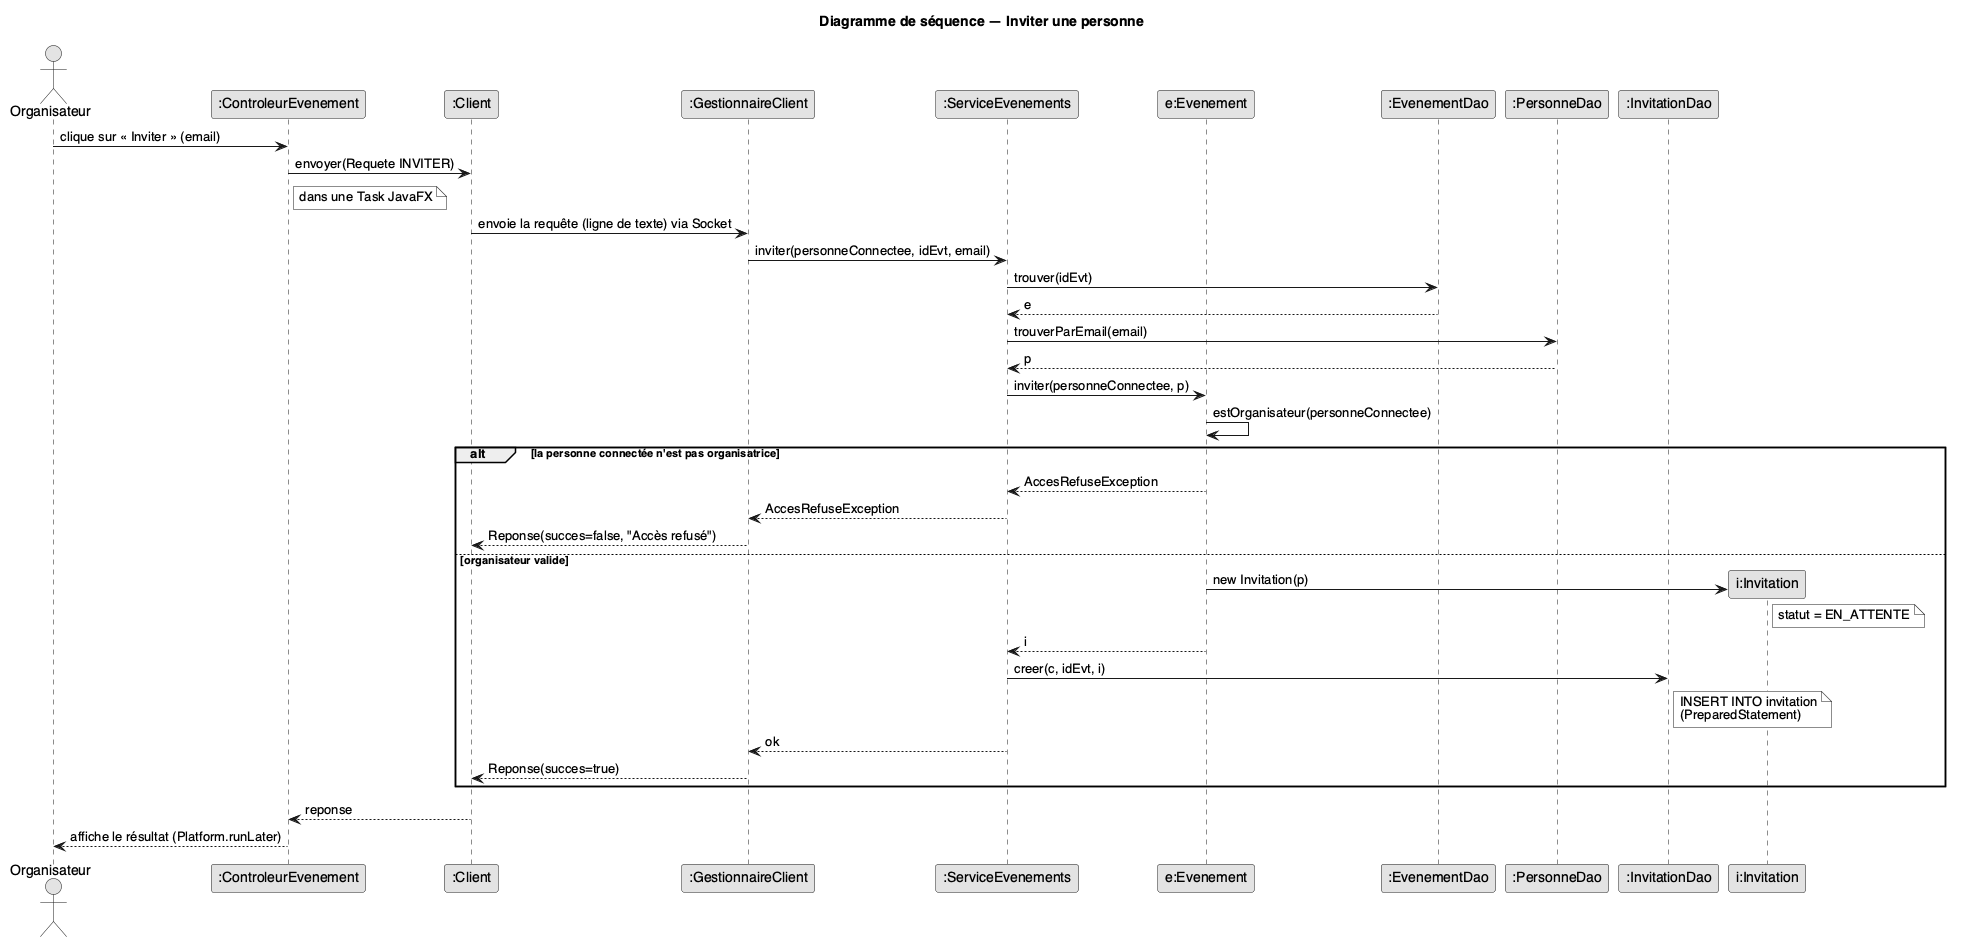
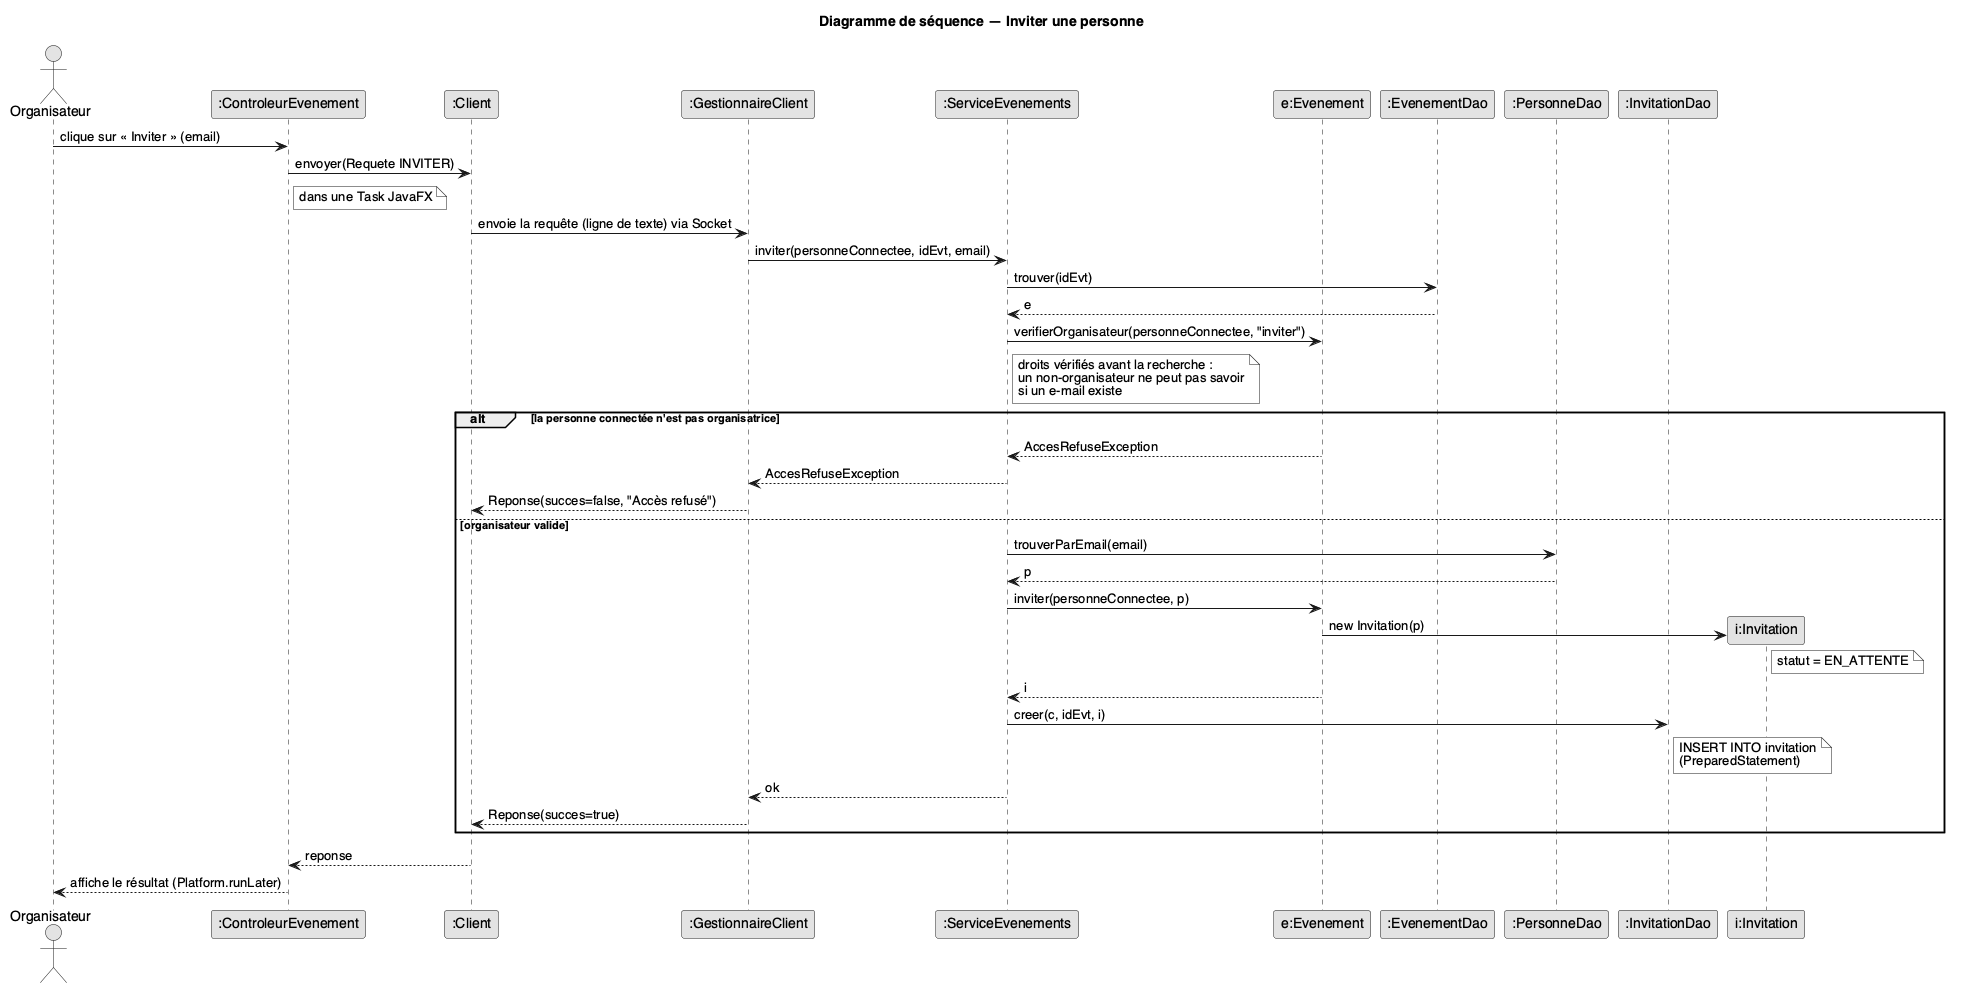
feat(bdd): enhance database initialization and transaction management; update SQL scripts and README

diff --git a/src/main/java/serveur/MainTestBDD.java b/src/main/java/serveur/MainTestBDD.java
@@ -36,9 +36,11 @@ public class MainTestBDD {
     public static void main(String[] args) throws Exception {
         // Repartir d'une base vide (le nom doit correspondre à db.url dans db.properties)
         Files.deleteIfExists(Path.of("evenements.db"));
-        InitBase.executerScript("/schema.sql");
-        InitBase.executerScript("/donnees_test.sql");
+        InitBase.initialiser();
         System.out.println("1. Base créée et remplie");
+        InitBase.initialiser();
+        verifier(compter("SELECT COUNT(*) FROM personne") == 4,
+                "second démarrage : données conservées, comptes de test non réinsérés (F4, F30)");
 
         PersonneDao personnes = new PersonneDao();
         AuthService auth = new AuthService(personnes);
@@ -59,12 +61,12 @@ public class MainTestBDD {
         Personne emma = auth.creerCompte("Moreau", "Emma", "emma@example.org", "secret", null);
         verifier(auth.seConnecter(" emma@example.org ", "secret").equals(emma),
                 "compte créé (haché bcrypt) puis connexion, espaces autour de l'e-mail ignorés");
-        echec(() -> auth.creerCompte("Moreau", "Emma", "EMMA@example.org", "autre", null), RuntimeException.class);
-        verifier(true, "même e-mail à la casse près refusé (UNIQUE COLLATE NOCASE)");
+        echec(() -> auth.creerCompte("Moreau", "Emma", "EMMA@example.org", "autre", null), IllegalStateException.class);
+        verifier(true, "même e-mail à la casse près refusé");
 
         // ------------------------------------------------------------ données de test
         System.out.println("\n3. Données de test relues (Factory sur la colonne type)");
-        Evenement anniv = service.trouverEvenement(1);
+        Evenement anniv = service.consulterEvenement(alice, 1);
         System.out.println("   " + anniv);
         for (Besoin b : anniv.getBesoins()) {
             System.out.println("     - " + b);
@@ -112,11 +114,13 @@ public class MainTestBDD {
         echec(() -> service.envoyerMessage(chloe, idSoiree, alice.getId(), "Je peux venir ?"),
                 AccesRefuseException.class);
         verifier(true, "Chloé (non participante) ne peut pas écrire dans la soirée (règle 3)");
+        echec(() -> service.consulterEvenement(chloe, idSoiree), AccesRefuseException.class);
+        verifier(true, "Chloé (ni organisatrice ni invitée) ne peut pas consulter la soirée (F6)");
 
         // ------------------------------------------------------------ relecture = redémarrage du serveur
         System.out.println("\n5. Relecture complète depuis la base (comme après un redémarrage)");
         ServiceEvenements apresRedemarrage = ServiceEvenements.creerParDefaut();
-        Evenement relue = apresRedemarrage.trouverEvenement(idSoiree);
+        Evenement relue = apresRedemarrage.consulterEvenement(alice, idSoiree);
         System.out.println("   " + relue);
         for (Besoin b : relue.getBesoins()) {
             System.out.println("     - " + b);
@@ -135,7 +139,7 @@ public class MainTestBDD {
         // ------------------------------------------------------------ transaction
         System.out.println("\n6. Transaction : Bob refuse après avoir accepté (F20)");
         service.repondreInvitation(bob, idSoiree, false);
-        Evenement apresRefus = service.trouverEvenement(idSoiree);
+        Evenement apresRefus = service.consulterEvenement(alice, idSoiree);
         verifier(!apresRefus.getBesoin(enceinte.getId()).orElseThrow().estAchete(),
                 "l'enceinte n'a plus d'acheteur : elle revient aux organisateurs");
         verifier(apresRefus.getInvitationDe(bob).orElseThrow().getStatut() == StatutInvitation.REFUSEE,
@@ -147,20 +151,20 @@ public class MainTestBDD {
                 apresRefus.getDateEvenement(), TypeEvenement.SOIREE);
         echec(() -> service.modifierEvenement(bob, idSoiree, "Piratée", null, 0, null,
                 apresRefus.getDateEvenement(), TypeEvenement.AUTRE), AccesRefuseException.class);
-        verifier(service.trouverEvenement(idSoiree).getNom().equals("Soirée de fin d'année"),
+        verifier(service.consulterEvenement(alice, idSoiree).getNom().equals("Soirée de fin d'année"),
                 "Alice modifie la soirée, Bob ne peut pas (F7, règle 1)");
         service.attribuerBesoin(alice, idSoiree, jus.getId(), alice.getId());
-        verifier(alice.equals(service.trouverEvenement(idSoiree).getBesoin(jus.getId()).orElseThrow().getAcheteur()),
+        verifier(alice.equals(service.consulterEvenement(alice, idSoiree).getBesoin(jus.getId()).orElseThrow().getAcheteur()),
                 "Alice attribue le jus à une participante (F18)");
         service.supprimerBesoin(alice, idSoiree, jus.getId());
-        verifier(service.trouverEvenement(idSoiree).getBesoin(jus.getId()).isEmpty(), "Alice supprime le jus (F17)");
+        verifier(service.consulterEvenement(alice, idSoiree).getBesoin(jus.getId()).isEmpty(), "Alice supprime le jus (F17)");
 
         // ------------------------------------------------------------ mariage, co-organisateur
         System.out.println("\n7. Mariage (budget traiteur automatique) et co-organisateur");
         Evenement mariage = service.creerEvenement(chloe, "Mariage de Chloé", "Lille", 0, null,
                 LocalDateTime.now().plusYears(1).withSecond(0).withNano(0), TypeEvenement.MARIAGE);
         service.ajouterOrganisateur(chloe, mariage.getId(), "david@example.org");
-        Evenement mariageRelu = service.trouverEvenement(mariage.getId());
+        Evenement mariageRelu = service.consulterEvenement(chloe, mariage.getId());
         System.out.println("   " + mariageRelu + ", organisateurs : " + mariageRelu.getOrganisateurs().size());
         verifier(mariageRelu.getBesoins().size() == 1, "budget traiteur ajouté une fois");
         verifier(mariageRelu.getOrganisateurs().size() == 2, "David est co-organisateur");

diff --git a/src/main/java/serveur/bdd/InitBase.java b/src/main/java/serveur/bdd/InitBase.java
@@ -4,18 +4,41 @@ import java.io.IOException;
 import java.io.InputStream;
 import java.nio.charset.StandardCharsets;
 import java.sql.Connection;
+import java.sql.ResultSet;
 import java.sql.SQLException;
 import java.sql.Statement;
 import java.util.stream.Collectors;
 
-/** Exécute un script SQL du classpath (bdd/schema.sql, bdd/donnees_test.sql). */
+/** Prépare la base au démarrage à partir des scripts du classpath (bdd/schema.sql, bdd/donnees_test.sql). */
 public final class InitBase {
 
     private InitBase() { }
 
-    public static void executerScript(String ressource) {
+    /**
+     * Crée les tables manquantes, puis insère les comptes de test si la base est vide (F4).
+     * Sans effet sur une base déjà remplie : les données sont conservées entre deux démarrages (F30).
+     */
+    public static void initialiser() {
+        // Une seule transaction : si une insertion échoue, rien n'est gardé et le prochain démarrage recommence
+        Transaction.executerSansRetour(c -> {
+            executerScript(c, "/schema.sql");
+            if (estVide(c)) {
+                executerScript(c, "/donnees_test.sql");
+            }
+        });
+    }
+
+    private static boolean estVide(Connection c) {
+        try (Statement st = c.createStatement(); ResultSet rs = st.executeQuery("SELECT COUNT(*) FROM personne")) {
+            return rs.next() && rs.getInt(1) == 0;
+        } catch (SQLException e) {
+            throw new DaoException("Lecture de la table personne impossible", e);
+        }
+    }
+
+    private static void executerScript(Connection c, String ressource) {
         String sql = lire(ressource);
-        try (Connection c = ConnexionBD.get(); Statement st = c.createStatement()) {
+        try (Statement st = c.createStatement()) {
             for (String instruction : sql.split(";")) {
                 if (!instruction.isBlank()) {
                     st.execute(instruction);

diff --git a/src/main/java/serveur/service/AuthService.java b/src/main/java/serveur/service/AuthService.java
@@ -2,10 +2,12 @@ package serveur.service;
 
 import modele.Personne;
 import org.mindrot.jbcrypt.BCrypt;
+import serveur.bdd.Transaction;
 import serveur.dao.PersonneDao;
 
 import java.time.LocalDate;
 
+/** Connexion (F1, F2, F31) et création de compte (comptes de test : pas d'inscription en ligne, F4). */
 public class AuthService {
     private final PersonneDao personnes;
 
@@ -15,6 +17,7 @@ public class AuthService {
 
     /**
      * Renvoie la personne si les identifiants sont bons.
+     * Même exception que l'e-mail soit inconnu ou le mot de passe faux (F2).
      */
     public Personne seConnecter(String email, String mdp) {
         return personnes.trouverParEmail(email)
@@ -22,8 +25,17 @@ public class AuthService {
                 .orElseThrow(AuthentificationException::new);
     }
 
-    /** Création d'un compte. Le mot de passe est haché avec bcrypt. */
-    public Personne creerCompte(String nom, String prenom, String email, String mdp, LocalDate dateNaissance) {
+    /**
+     * Création d'un compte. Le mot de passe est haché avec bcrypt.
+     * synchronized : la vérification d'unicité de l'e-mail et l'insertion ne sont pas entrelacées entre clients.
+     */
+    public synchronized Personne creerCompte(String nom, String prenom, String email, String mdp, LocalDate dateNaissance) {
+        if (mdp == null || mdp.isBlank()) {
+            throw new IllegalArgumentException("Le mot de passe est obligatoire");
+        }
+        if (personnes.trouverParEmail(email).isPresent()) {
+            throw new IllegalStateException("Un compte existe déjà avec cet e-mail");
+        }
         String hash = BCrypt.hashpw(mdp, BCrypt.gensalt());
         Personne p = new Personne(0, nom, prenom, null, null, email, hash, dateNaissance);
         Transaction.executer(c -> personnes.creer(c, p));

diff --git a/src/main/java/serveur/dao/BesoinDao.java b/src/main/java/serveur/dao/BesoinDao.java
@@ -16,7 +16,7 @@ public class BesoinDao {
                 + "VALUES (?, ?, ?, ?, ?, ?, ?, ?, ?, ?, ?, ?, ?)";
         try (PreparedStatement ps = c.prepareStatement(sql, Statement.RETURN_GENERATED_KEYS)) {
             ps.setInt(1, idEvenement);
-            Sql.setEntier(ps, 2, b.estAchete() ? b.getAcheteur().getId() : null);
+            Sql.setEntier(ps, 2, idAcheteur(b));
             ps.setString(3, typeDe(b));
             ps.setString(4, b.getNom());
             ps.setDouble(5, b.getPrix());
@@ -41,7 +41,7 @@ public class BesoinDao {
     /** Enregistre l'acheteur actuel du besoin. */
     public void mettreAJourAcheteur(Connection c, Besoin b) {
         try (PreparedStatement ps = c.prepareStatement("UPDATE besoin SET id_acheteur = ? WHERE id = ?")) {
-            if (b.estAchete()) ps.setInt(1, b.getAcheteur().getId()); else ps.setNull(1, Types.INTEGER);
+            Sql.setEntier(ps, 1, idAcheteur(b));
             ps.setInt(2, b.getId());
             ps.executeUpdate();
         } catch (SQLException e) {
@@ -79,9 +79,12 @@ public class BesoinDao {
         }
     }
 
-    /**
-     * Valeur de la colonne type selon la sous-classe.
-     */
+    /** Colonne id_acheteur : NULL quand les organisateurs achètent. */
+    private static Integer idAcheteur(Besoin b) {
+        return b.estAchete() ? b.getAcheteur().getId() : null;
+    }
+
+    /** Valeur de la colonne type selon la sous-classe. */
     private static String typeDe(Besoin b) {
         if (b instanceof Consommable) return "CONSOMMABLE";
         if (b instanceof MaterielSon) return "MATERIEL_SON";

diff --git a/src/main/java/serveur/service/ServiceEvenements.java b/src/main/java/serveur/service/ServiceEvenements.java
@@ -1,13 +1,16 @@
 package serveur.service;
 
 import modele.*;
+import serveur.bdd.Transaction;
 import serveur.dao.*;
 
 import java.time.LocalDateTime;
 import java.util.List;
 
 /**
- * Logique métier côté serveur.
+ * Logique métier côté serveur : charge l'événement, applique la règle du modèle, puis écrit en base
+ * dans une transaction. Méthodes synchronized : un seul client à la fois modifie les données (F27).
+ * L'appelant est toujours la personne connectée : les droits sont vérifiés côté serveur, jamais par le client.
  */
 public class ServiceEvenements {
     public static final double BUDGET_TRAITEUR_DEFAUT = 1500.0;
@@ -36,7 +39,16 @@ public class ServiceEvenements {
         return new ServiceEvenements(p, new EvenementDao(p, i, b, m), i, b, m);
     }
 
-    public synchronized Evenement trouverEvenement(int idEvenement) {
+    /** Détail d'un événement : réservé à ses organisateurs et à ses invités (F6). */
+    public synchronized Evenement consulterEvenement(Personne appelant, int idEvenement) {
+        Evenement e = trouverEvenement(idEvenement);
+        if (!e.estOrganisateur(appelant) && e.getInvitationDe(appelant).isEmpty()) {
+            throw new AccesRefuseException("seuls les organisateurs et les invités voient cet événement");
+        }
+        return e;
+    }
+
+    private Evenement trouverEvenement(int idEvenement) {
         return evenements.trouver(idEvenement)
                 .orElseThrow(() -> new IllegalArgumentException("Événement inconnu : " + idEvenement));
     }

diff --git a/src/main/java/serveur/bdd/Transaction.java b/src/main/java/serveur/bdd/Transaction.java
@@ -1,7 +1,4 @@
-package serveur.service;
-
-import serveur.bdd.ConnexionBD;
-import serveur.bdd.DaoException;
+package serveur.bdd;
 
 import java.sql.Connection;
 import java.sql.SQLException;
@@ -12,10 +9,10 @@ import java.util.function.Function;
  * Exécute un bloc d'écritures en une seule transaction : tout est validé ou rien.
  * Le service ouvre la transaction, les DAO font le SQL sur la connexion reçue.
  */
-final class Transaction {
+public final class Transaction {
     private Transaction() { }
 
-    static <T> T executer(Function<Connection, T> travail) {
+    public static <T> T executer(Function<Connection, T> travail) {
         try (Connection c = ConnexionBD.get()) {
             c.setAutoCommit(false);
             try {
@@ -31,7 +28,7 @@ final class Transaction {
         }
     }
 
-    static void executerSansRetour(Consumer<Connection> travail) {
+    public static void executerSansRetour(Consumer<Connection> travail) {
         executer(c -> {
             travail.accept(c);
             return null;

diff --git a/src/main/java/serveur/bdd/ConnexionBD.java b/src/main/java/serveur/bdd/ConnexionBD.java
@@ -38,9 +38,14 @@ public final class ConnexionBD {
         try {
             if (url.startsWith("jdbc:sqlite")) {
                 Connection c = DriverManager.getConnection(url);
-                // SQLite ignore les clés étrangères par défaut : il faut les activer à chaque connexion
                 try (Statement st = c.createStatement()) {
+                    // SQLite ignore les clés étrangères par défaut : il faut les activer à chaque connexion
                     st.execute("PRAGMA foreign_keys = ON");
+                    // Plusieurs clients (un thread chacun) : attendre qu'une écriture se termine au lieu d'échouer
+                    st.execute("PRAGMA busy_timeout = 5000");
+                } catch (SQLException e) {
+                    c.close(); // ne pas laisser fuir la connexion si la configuration échoue
+                    throw e;
                 }
                 return c;
             }

diff --git a/src/main/java/modele/Personne.java b/src/main/java/modele/Personne.java
@@ -4,6 +4,7 @@ import org.mindrot.jbcrypt.BCrypt;
 
 import java.time.LocalDate;
 import java.time.Period;
+import java.util.Locale;
 
 /** Classe représentant une personne. */
 public class Personne {
@@ -46,7 +47,7 @@ public class Personne {
 
     /** Forme unique d'un e-mail (espaces retirés, minuscules), à l'écriture comme à la recherche. */
     public static String normaliserEmail(String email) {
-        return email == null ? "" : email.trim().toLowerCase();
+        return email == null ? "" : email.trim().toLowerCase(Locale.ROOT);
     }
 
     public String getNomComplet() {

diff --git a/src/main/java/serveur/dao/MessageDao.java b/src/main/java/serveur/dao/MessageDao.java
@@ -23,7 +23,7 @@ public class MessageDao {
             ps.setInt(2, m.getEnvoyeur().getId());
             ps.setInt(3, m.getReceveur().getId());
             ps.setString(4, m.getContenu());
-            ps.setString(5, m.getDate().withNano(0).toString());
+            ps.setString(5, Sql.versTexte(m.getDate()));
             ps.executeUpdate();
             int id = Sql.cleGeneree(ps);
             m.setId(id);

diff --git a/src/main/java/modele/Evenement.java b/src/main/java/modele/Evenement.java
@@ -8,9 +8,9 @@ import java.util.List;
 import java.util.Optional;
 
 /**
- * Un événement et ses règles métier
+ * Un événement et ses règles métier.
  * Il possède ses invitations, besoins et messages.
- * Il référence ses organisateurs, qui existent sans lui..
+ * Il référence ses organisateurs, qui existent sans lui.
  */
 public class Evenement {
     private int id;

diff --git a/src/main/java/modele/AccesRefuseException.java b/src/main/java/modele/AccesRefuseException.java
@@ -4,6 +4,8 @@ package modele;
  * Levée quand une personne tente une action réservée (ex. inviter sans être organisateur).
  */
 public class AccesRefuseException extends RuntimeException {
+    private static final long serialVersionUID = 1L;
+
     public AccesRefuseException(String message) {
         super("Accès refusé : " + message);
     }

diff --git a/src/main/java/serveur/bdd/DaoException.java b/src/main/java/serveur/bdd/DaoException.java
@@ -5,6 +5,8 @@ package serveur.bdd;
  * Les couches supérieures (services, IHM) n'ont ainsi pas à connaître java.sql.
  */
 public class DaoException extends RuntimeException {
+    private static final long serialVersionUID = 1L;
+
     public DaoException(String message, Throwable cause) {
         super(message, cause);
     }
